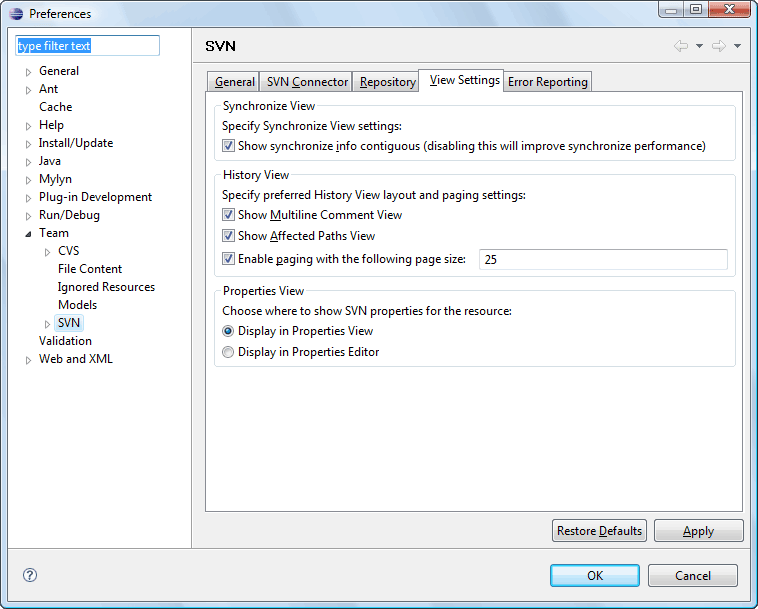
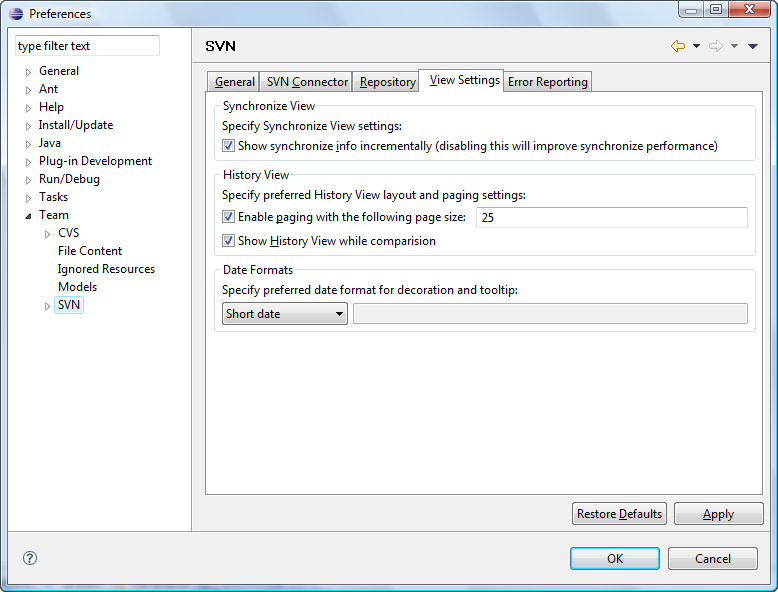
Update help according to plug-in changes (bug 225568) https://bugs.eclipse.org/bugs/show_bug.cgi?id=225568

Changed region(s): [[0.0, 0.0, 1.0, 1.0], [0.5158, 0.973, 0.6372, 1.0]]

diff --git a/org.eclipse.team.svn.help/teamSupport/merge_dialog.html b/org.eclipse.team.svn.help/teamSupport/merge_dialog.html
@@ -18,35 +18,12 @@
 		</tr>
 	</table>
 <h2>SVN Merge Dialog</h2>
-	<p>This dialog appears when the user clicks on <i>'Team>Merge...'</i> menu item in the pop-up menu of the resource linked with the repository location, <i>'Merge...'</i> menu item of the <i>'SVN main menu group'</i> or on the <i>'Merge...'</i> button on the <i>'SVN Toolbar'</i>. There are Simple and Advanced merge modes. In simple mode the user can merge his local version with some remote one. And in advance mode user can merge his local copy with resources from different URLs. The merge operation in both modes also can be performed with some rage of revisions.</p>
-	<p>This is how the dialog in the Simple mode looks like:</p>
-	<img border = "0" src="../images/merge_simple.png" alt="Merge dialog in a simple mode"/>
-	<br/>
-	<br/>
-	<table cellpadding="5" cellspacing="0" border="1" width="100%">
-		<tr>
-			<td class="header" align ="center" valign="center">Option</td>
-			<td class="header" align ="center" valign="center">Description</td>
-			<td class="header" align ="center" valign="center">Default</td>
-		</tr>
-		<tr>
-			<td align ="center" valign="center">URL</td>
-			<td align ="center" valign="center">Specifies the remote resource location</td>
-			<td align ="center" valign="center">'blank'</td>
-		</tr>
-		<tr>
-			<td align ="center" valign="center">Start revision</td>
-			<td align ="center" valign="center">Specifies the minimum merge range revision number.</td>
-			<td align ="center" valign="center">Head</td>
-		</tr>
-		<tr>
-			<td align ="center" valign="center">Stop revision</td>
-			<td align ="center" valign="center">Specifies the maximum merge range revision number.</td>
-			<td align ="center" valign="center">Head</td>
-		</tr>
-	</table>
-	<p>This is how the dialog in the Advance mode looks like:</p>
-	<img border = "0" src="../images/merge_advance.png" alt="Merge dialog in an advance mode"/>
+	<p>This dialog appears when the user clicks on <i>'Team>Merge...'</i> menu item in the pop-up menu of the resource linked with the repository location, <i>'Merge...'</i> menu item of the <i>'SVN main menu group'</i> or on the <i>'Merge...'</i> button on the <i>'SVN Toolbar'</i>.
+	It's a known fact that the merge functionality differs for SVN 1.4 and SVN 1.5, so the different dialogs are used. The difference is described below.</p>
+	<p><b>Common of SVN 1.4 and SVN 1.5 merges:</b><br/>
+	The common part of the different SVN versions' merge is the '2 URL' merge mode. It allows you to merge the changes between two resources from different URLs simply
+	specifying the appropriate revisions of them. The screen shot of the dialog in '2 URL' mode is shown below:</p>
+	<img border = "0" src="../images/merge_2url.png" alt="'2 URL' merge mode"/>
 	<br/>
 	<br/>
 	<table cellpadding="5" cellspacing="0" border="1" width="100%">
@@ -79,6 +56,113 @@
 			<td align ="center" valign="center">Ignore Ancestry</td>
 			<td align ="center" valign="center">Specifies if Subversion&reg; should ignore the ancestry of resources while merging.</td>
 			<td align ="center" valign="center">Disabled</td>
+		</tr>
+		<tr>
+			<td align ="center" valign="center">Depth</td>
+			<td align ="center" valign="center">Specifies the depth to be covered by merge.</td>
+			<td align ="center" valign="center">Working copy</td>
+		</tr>
+	</table>
+	<br/>
+	<p><b>SVN 1.4 specific merge:</b><br/>The 'One URL' merge in SVN 1.4 is performed by blending the differences between two revision of the same resource to the working copy.
+	this is how the dialog looks like then:</p>
+	<img border = "0" src="../images/merge_url_14.png" alt="'One URL' merge in SVN 1.4"/>
+	<br/>
+	<br/>
+	<table cellpadding="5" cellspacing="0" border="1" width="100%">
+		<tr>
+			<td class="header" align ="center" valign="center">Option</td>
+			<td class="header" align ="center" valign="center">Description</td>
+			<td class="header" align ="center" valign="center">Default</td>
+		</tr>
+		<tr>
+			<td align ="center" valign="center">URL</td>
+			<td align ="center" valign="center">Specifies the remote resource location</td>
+			<td align ="center" valign="center">'blank'</td>
+		</tr>
+		<tr>
+			<td align ="center" valign="center">Start revision</td>
+			<td align ="center" valign="center">Specifies the minimum merge range revision number.</td>
+			<td align ="center" valign="center">Head</td>
+		</tr>
+		<tr>
+			<td align ="center" valign="center">Stop revision</td>
+			<td align ="center" valign="center">Specifies the maximum merge range revision number.</td>
+			<td align ="center" valign="center">Head</td>
+		</tr>
+		<tr>
+			<td align ="center" valign="center">Ignore Ancestry</td>
+			<td align ="center" valign="center">Specifies if Subversion&reg; should ignore the ancestry of resources while merging.</td>
+			<td align ="center" valign="center">Disabled</td>
+		</tr>
+		<tr>
+			<td align ="center" valign="center">Depth</td>
+			<td align ="center" valign="center">Specifies the depth to be covered by merge.</td>
+			<td align ="center" valign="center">Working copy</td>
+		</tr>
+	</table>
+	<p><b>SVN 1.5 specific merge:</b><br/>While performing 'One URL' merge in SVN 1.5 the user can not only select start and stop revisions, but
+	exact revision ranges to be used by the merge. The merge can be made for the whole revision range of the resource, from the copy time or the range
+	can be selected manually in the 'Revision Selection' dialog as displayed below:</p>
+	<img border = "0" src="../images/revision_selection.png" alt="'Revision Selection' dialog"/>
+	<br/>
+	<p>In such mode it's impossible to determine if the merge is reversed, so the checkbox was added to let the user specify this manually. The dialog in 'One URL' mode for SVN 1.5 looks like this:</p>
+	<img border = "0" src="../images/merge_url_15.png" alt="'One URL' merge in SVN 1.5"/>
+	<br/>
+	<br/>
+	<table cellpadding="5" cellspacing="0" border="1" width="100%">
+		<tr>
+			<td class="header" align ="center" valign="center">Option</td>
+			<td class="header" align ="center" valign="center">Description</td>
+			<td class="header" align ="center" valign="center">Default</td>
+		</tr>
+		<tr>
+			<td align ="center" valign="center">URL</td>
+			<td align ="center" valign="center">Specifies the remote resource location</td>
+			<td align ="center" valign="center">'blank'</td>
+		</tr>
+		<tr>
+			<td align ="center" valign="center">Revisions</td>
+			<td align ="center" valign="center">Specifies revision range to be used in merge.</td>
+			<td align ="center" valign="center">Start from copy</td>
+		</tr>
+		<tr>
+			<td align ="center" valign="center">Reverse</td>
+			<td align ="center" valign="center">Specifies if the reverse merge should be performed.</td>
+			<td align ="center" valign="center">Disabled</td>
+		</tr>
+		<tr>
+			<td align ="center" valign="center">Ignore Ancestry</td>
+			<td align ="center" valign="center">Specifies if Subversion&reg; should ignore the ancestry of resources while merging.</td>
+			<td align ="center" valign="center">Disabled</td>
+		</tr>
+		<tr>
+			<td align ="center" valign="center">Depth</td>
+			<td align ="center" valign="center">Specifies the depth to be covered by merge.</td>
+			<td align ="center" valign="center">Working copy</td>
+		</tr>
+	</table>
+	<br/>
+	<p>The 'Reintegrate' mode is used to allow the Subversion to merge from the branch the changes skipping the ones the same for the
+	version you are merging into and the branch you are merging from. This is how the dialog for 'Reintegrate' mode looks like:</p>
+	<img border = "0" src="../images/reintegrate.png" alt="'Reintegrate' merge in SVN 1.5"/>
+	<br/>
+	<br/>
+	<table cellpadding="5" cellspacing="0" border="1" width="100%">
+		<tr>
+			<td class="header" align ="center" valign="center">Option</td>
+			<td class="header" align ="center" valign="center">Description</td>
+			<td class="header" align ="center" valign="center">Default</td>
+		</tr>
+		<tr>
+			<td align ="center" valign="center">URL</td>
+			<td align ="center" valign="center">Specifies the remote resource location</td>
+			<td align ="center" valign="center">'blank'</td>
+		</tr>
+		<tr>
+			<td align ="center" valign="center">Revision</td>
+			<td align ="center" valign="center">Specifies revision to merge to.</td>
+			<td align ="center" valign="center">Head Revision</td>
 		</tr>
 	</table>
 	<p>With the <i>'Preview'</i> button the user can inspect the consequences of the merge operation.</p>

diff --git a/org.eclipse.team.svn.help/preferences/pref_svn.html b/org.eclipse.team.svn.help/preferences/pref_svn.html
@@ -52,12 +52,6 @@
 				<td class="header" align ="center" valign="center">Default</td>
 			</tr>
 			<tr>
-				<td align ="center" valign="center">Detect deleted projects before update</td>
-				<td align ="center" valign="center">Specifies if the plug-in should detect if the project the user is trying to update have been
-				removed from the repository.</td>
-				<td align ="center" valign="center">Enabled</td>
-			</tr>
-			<tr>
 				<td align ="center" valign="center">Check the new resources in the commit dialog</td>
 				<td align ="center" valign="center">Specifies if the plug-in should check the new resources in the commit dialog.</td>
 				<td align ="center" valign="center">Enabled</td>
@@ -99,8 +93,13 @@
 				<td align ="center" valign="center">Subversive Default</td>
 			</tr>
 			<tr>
-				<td align ="center" valign="center">Use SVN Merge View</td>
+				<td align ="center" valign="center">Use SVN Merge view</td>
 				<td align ="center" valign="center">When chosen Subversive allows to use Synchronize View features during the merging.</td>
+				<td align ="center" valign="center">Enabled</td>
+			</tr>
+			<tr>
+				<td align ="center" valign="center">Show merged revisions</td>
+				<td align ="center" valign="center">When chosen Subversive show revisions, which took part in the merges, while viewing resource history.</td>
 				<td align ="center" valign="center">Disabled</td>
 			</tr>
 		</table><br/>
@@ -148,6 +147,11 @@
 				<td align ="center" valign="center">tags</td>
 			</tr>
 			<tr>
+				<td align ="center" valign="center">Show resources linked with svn:externals</td>
+				<td align ="center" valign="center">When enabled the resources linked as externals are shown in Repository Tree and Repository Browser.</td>
+				<td align ="center" valign="center">Enabled</td>
+			</tr>
+			<tr>
 				<td align ="center" valign="center">Use '.project' project name for the working copy instead of repository folder name</td>
 				<td align ="center" valign="center">When enabled uses the local project name from '.project'. Disabling improves check out performance.</td>
 				<td align ="center" valign="center">Enabled</td>
@@ -192,18 +196,8 @@
 				<td class="header" align ="center" valign="center">Default</td>
 			</tr>
 			<tr>
-				<td align ="center" valign="center">Show synchronize info contiguous</td>
+				<td align ="center" valign="center">Show synchronize info incrementally</td>
 				<td align ="center" valign="center">Specifies if the synchronization info will be get in series (Enabled) or in whole (Disabled).</td>
-				<td align ="center" valign="center">Enabled</td>
-			</tr>
-			<tr>
-				<td align ="center" valign="center">Show multi line comment view</td>
-				<td align ="center" valign="center">Allows plug-in to show 'multi line comment view' in a 'History View'.</td>
-				<td align ="center" valign="center">Enabled</td>
-			</tr>
-			<tr>
-				<td align ="center" valign="center">Show Affected Path View</td>
-				<td align ="center" valign="center">Allows plug-in to show paths where changes have been made.</td>
 				<td align ="center" valign="center">Enabled</td>
 			</tr>
 			<tr>
@@ -212,9 +206,9 @@
 				<td align ="center" valign="center">Enabled / 25</td>
 			</tr>
 			<tr>
-				<td align ="center" valign="center">Choose where to show SVN&reg; properties for the resource</td>
-				<td align ="center" valign="center">SVN&reg; properties for a resource are shown in a 'Properties View' or in a  'Properties Editor' depending on a selection.</td>
-				<td align ="center" valign="center">Display in 'Properties View'</td>
+				<td align ="center" valign="center">Show History View while comparison</td>
+				<td align ="center" valign="center">Specifies if the history view is shown when one of 'Compare With' actions is called.</td>
+				<td align ="center" valign="center">Enabled</td>
 			</tr>
 		</table><br/>
 		This is how <i>'View Settings'</i> tab group looks like:

diff --git a/org.eclipse.team.svn.help/teamSupport/history_view.html b/org.eclipse.team.svn.help/teamSupport/history_view.html
@@ -19,7 +19,9 @@
 		</tr>
 	</table>
 <h2>SVN History View</h2>
-	<p><a class="command-link" href='javascript:executeCommand("org.eclipse.ui.views.showView(org.eclipse.ui.views.showView.viewId=org.eclipse.team.ui.GenericHistoryView)")'><img src="PLUGINS_ROOT/org.eclipse.help/command_link.png"/><i>'SVN History View'</i></a> provides information on a history of resource change. The user can simply watch the change history, open editor on a specified revision, load a revision, revert the workspace to the revision, show annotations and view multiline comments and affected paths, if allowed in preferences.</p>
+	<p><a class="command-link" href='javascript:executeCommand("org.eclipse.ui.views.showView(org.eclipse.ui.views.showView.viewId=org.eclipse.team.ui.GenericHistoryView)")'><img src="PLUGINS_ROOT/org.eclipse.help/command_link.png"/><i>'SVN History View'</i></a>
+	provides information on a history of resource change. The user can simply watch the change history, open editor on a specified revision, load a revision, revert the workspace to the revision. If the Subversion server and client versions used is 1.5 then the
+	revisions, which took part in the previous merges of this resource are shown as children of the main history nodes. The user can group the log messages by date, select if to show remote history, local history or both.</p>
 	<p>This is how <i>'SVN History View'</i> looks like:</p>
 	<img border = "0" src="../images/history_view.png" alt="SVN History View"/>
 	<p><b><i>Columns</i></b></p>

diff --git a/org.eclipse.team.svn.help/teamSupport/SVNaction/merge.html b/org.eclipse.team.svn.help/teamSupport/SVNaction/merge.html
@@ -37,8 +37,7 @@
 			</td>
 		</tr>
 	</table>
-	<p>If the option of interactive merge is enabled then the merge results preview is shown in the <i>'SVN Merge View'</i>. The incoming and
-	maybe conflicting changes are shown there.</p>
+	<p>If the option of interactive merge is enabled then the merge results are shown in the <i>'SVN Merge View'</i>. The changes that can't be done by Subversion while merge are also shown in this view and can be merged or skipped manually.</p>
 	<img border="0" src="../../images/merge_view.png" alt="Related topics"/></br>
 	<img border="0" src="../../images/rel_tops.png" alt="Related topics"/>
 	<br/>
